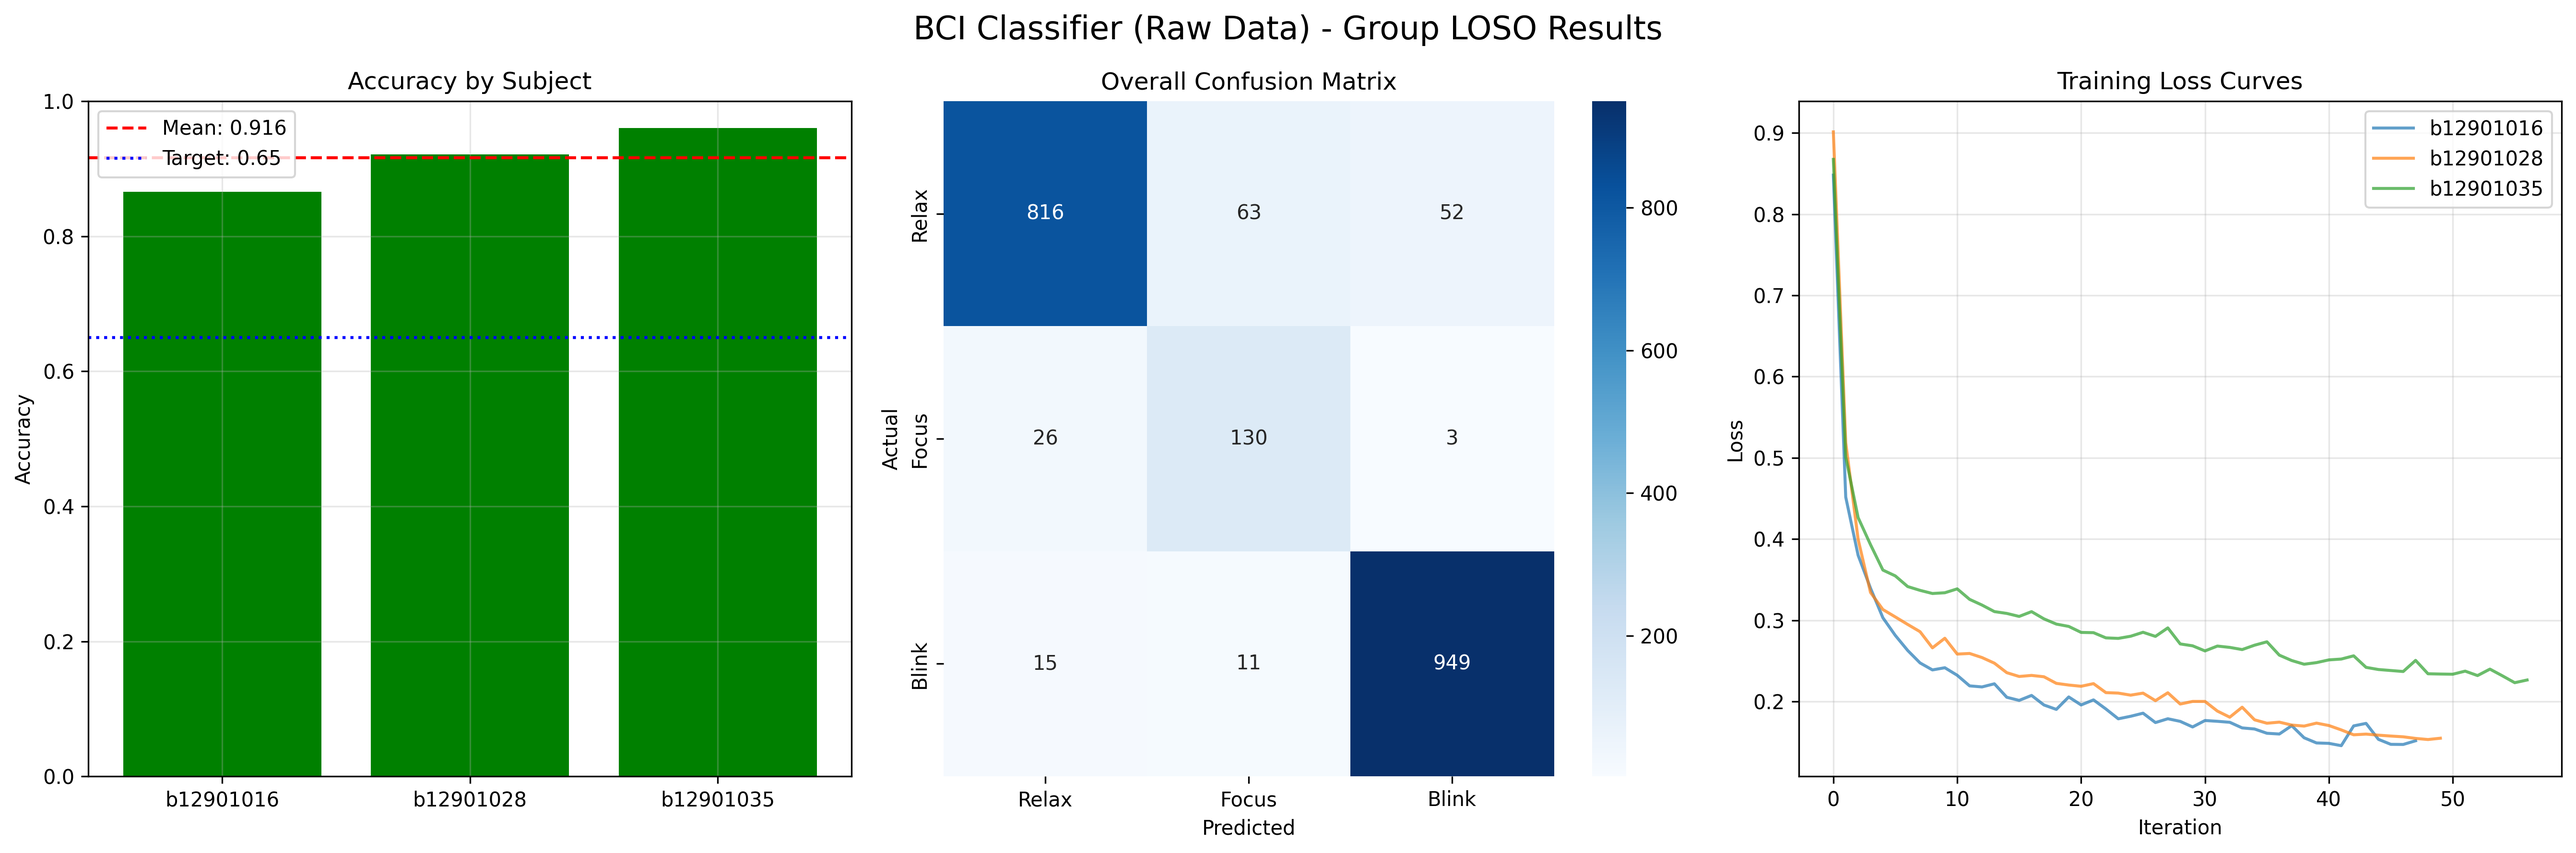
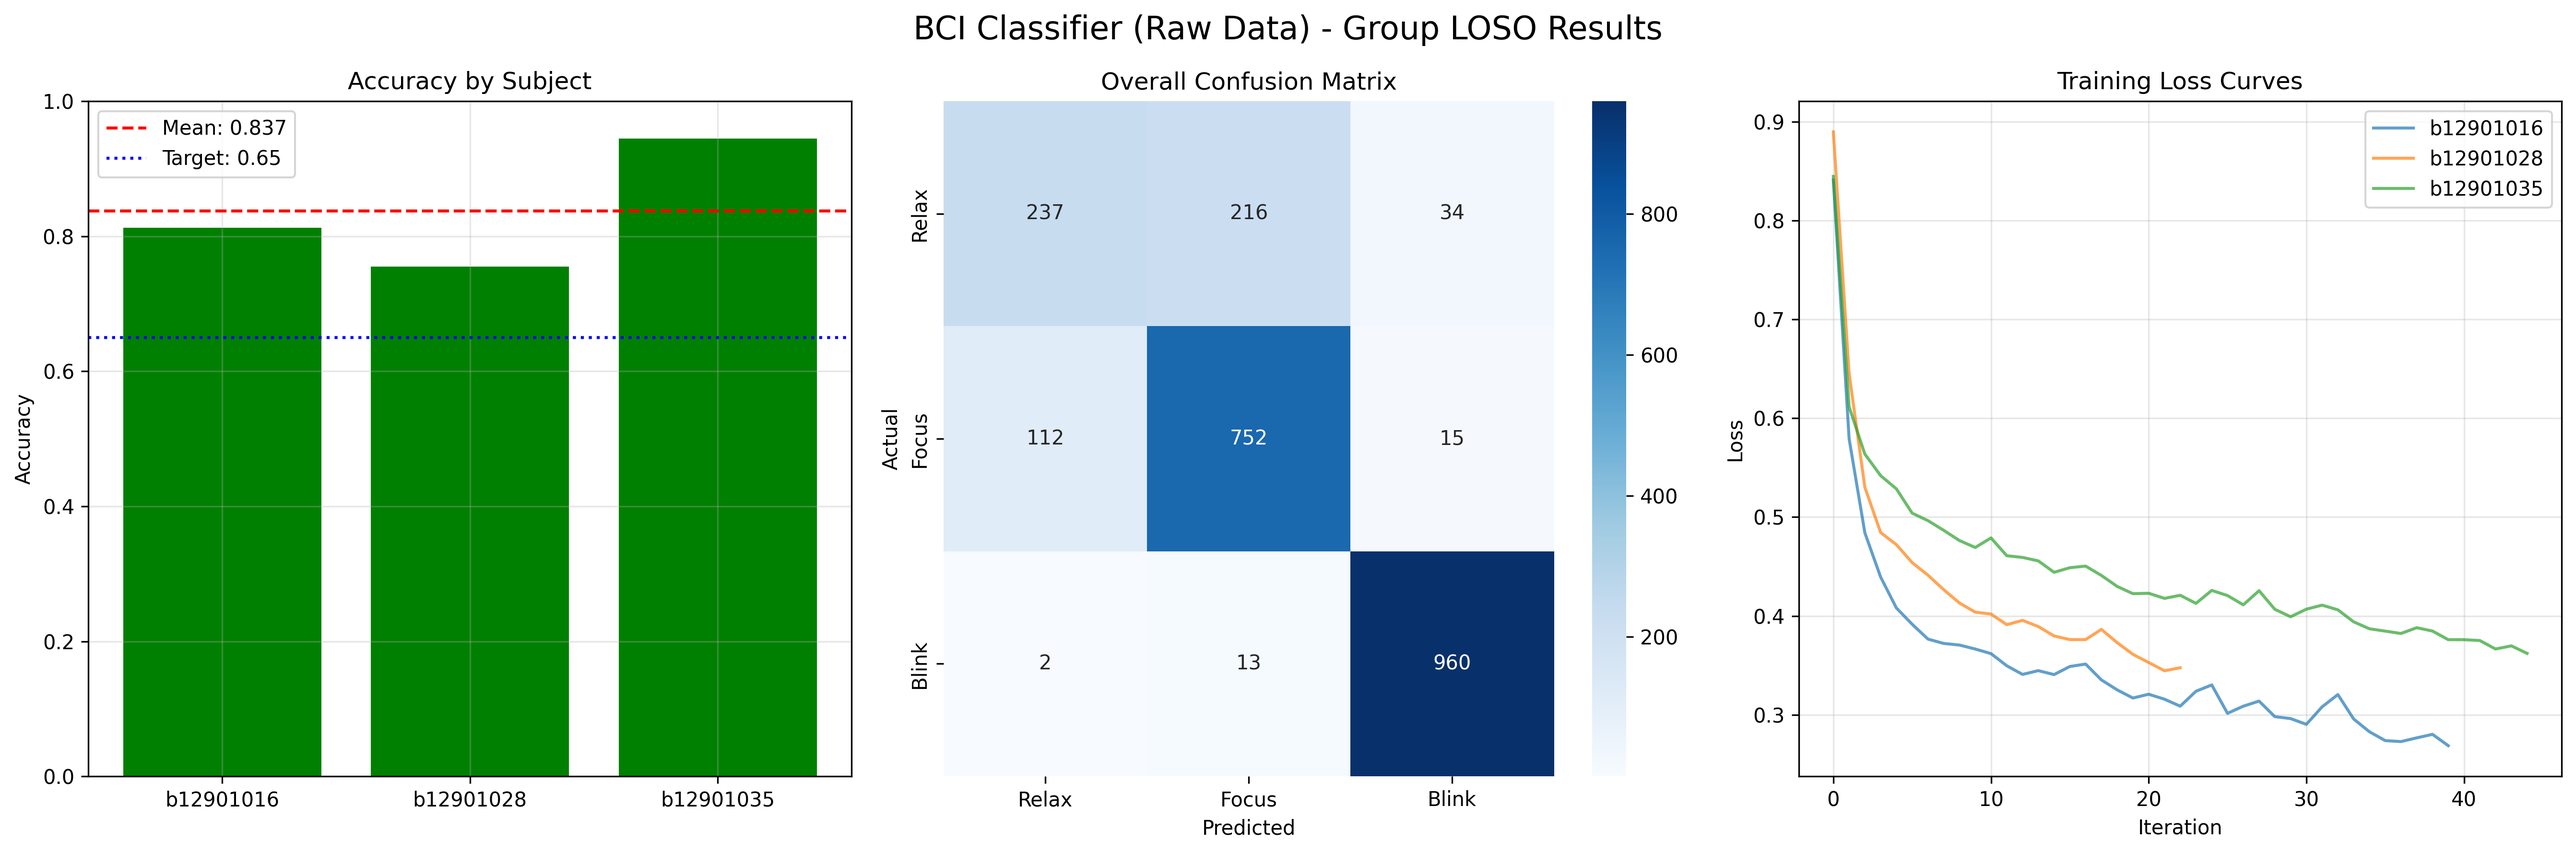
Acc 0.837

diff --git a/main.py b/main.py
@@ -26,7 +26,8 @@ class Config:
     RF_SEG_LEN = 4.0                   # 窗口大一點，頻譜解析度才高
     RF_OVERLAP = 0.7                   # 重疊率高一點，資料量才多
     # 【關鍵修改 1】嚴格過濾！真正的腦波不會超過 800，超過的都是肌肉或眼動雜訊，直接丟棄！
-    RF_MAX_THRES = 800                 
+    F_MAX_THRES = 1500                 
+    R_MAX_THRES = 1200
 
     # === 策略 B：針對瞬間狀態 (Blink) ===
     BLINK_SEG_LEN = 1.5                # 窗口縮小，聚焦眨眼瞬間，避免被背景稀釋
@@ -79,11 +80,11 @@ def create_segments(data, segment_length_samples, overlap_samples, task_type):
         # === 核心邏輯：依照任務進行智能過濾 ===
         if task_type == 1: # Relax
             # 放寬 Relax 的標準，多收一點資料進來訓練
-            if peak_amp > 1500: 
+            if peak_amp > Config.R_MAX_THRES: 
                 start += step
                 continue 
         elif task_type == 2: # Focus
-            if peak_amp > Config.RF_MAX_THRES:
+            if peak_amp > Config.F_MAX_THRES:
                 start += step
                 continue
                 
@@ -240,7 +241,7 @@ class EnhancedBCIClassifier:
         # 2. 客製化門檻邏輯
         for i in range(len(X)):
             # 只要 Relax 的機率超過 0.35 (不用等到 0.5 或最高)，就判定為 Relax
-            if probs[i, 0] > 0.37:  
+            if probs[i, 0] > 0.3:  
                 predictions[i] = 0
             else:
                 # 剩下的再讓 Focus 和 Blink 去比誰機率高
